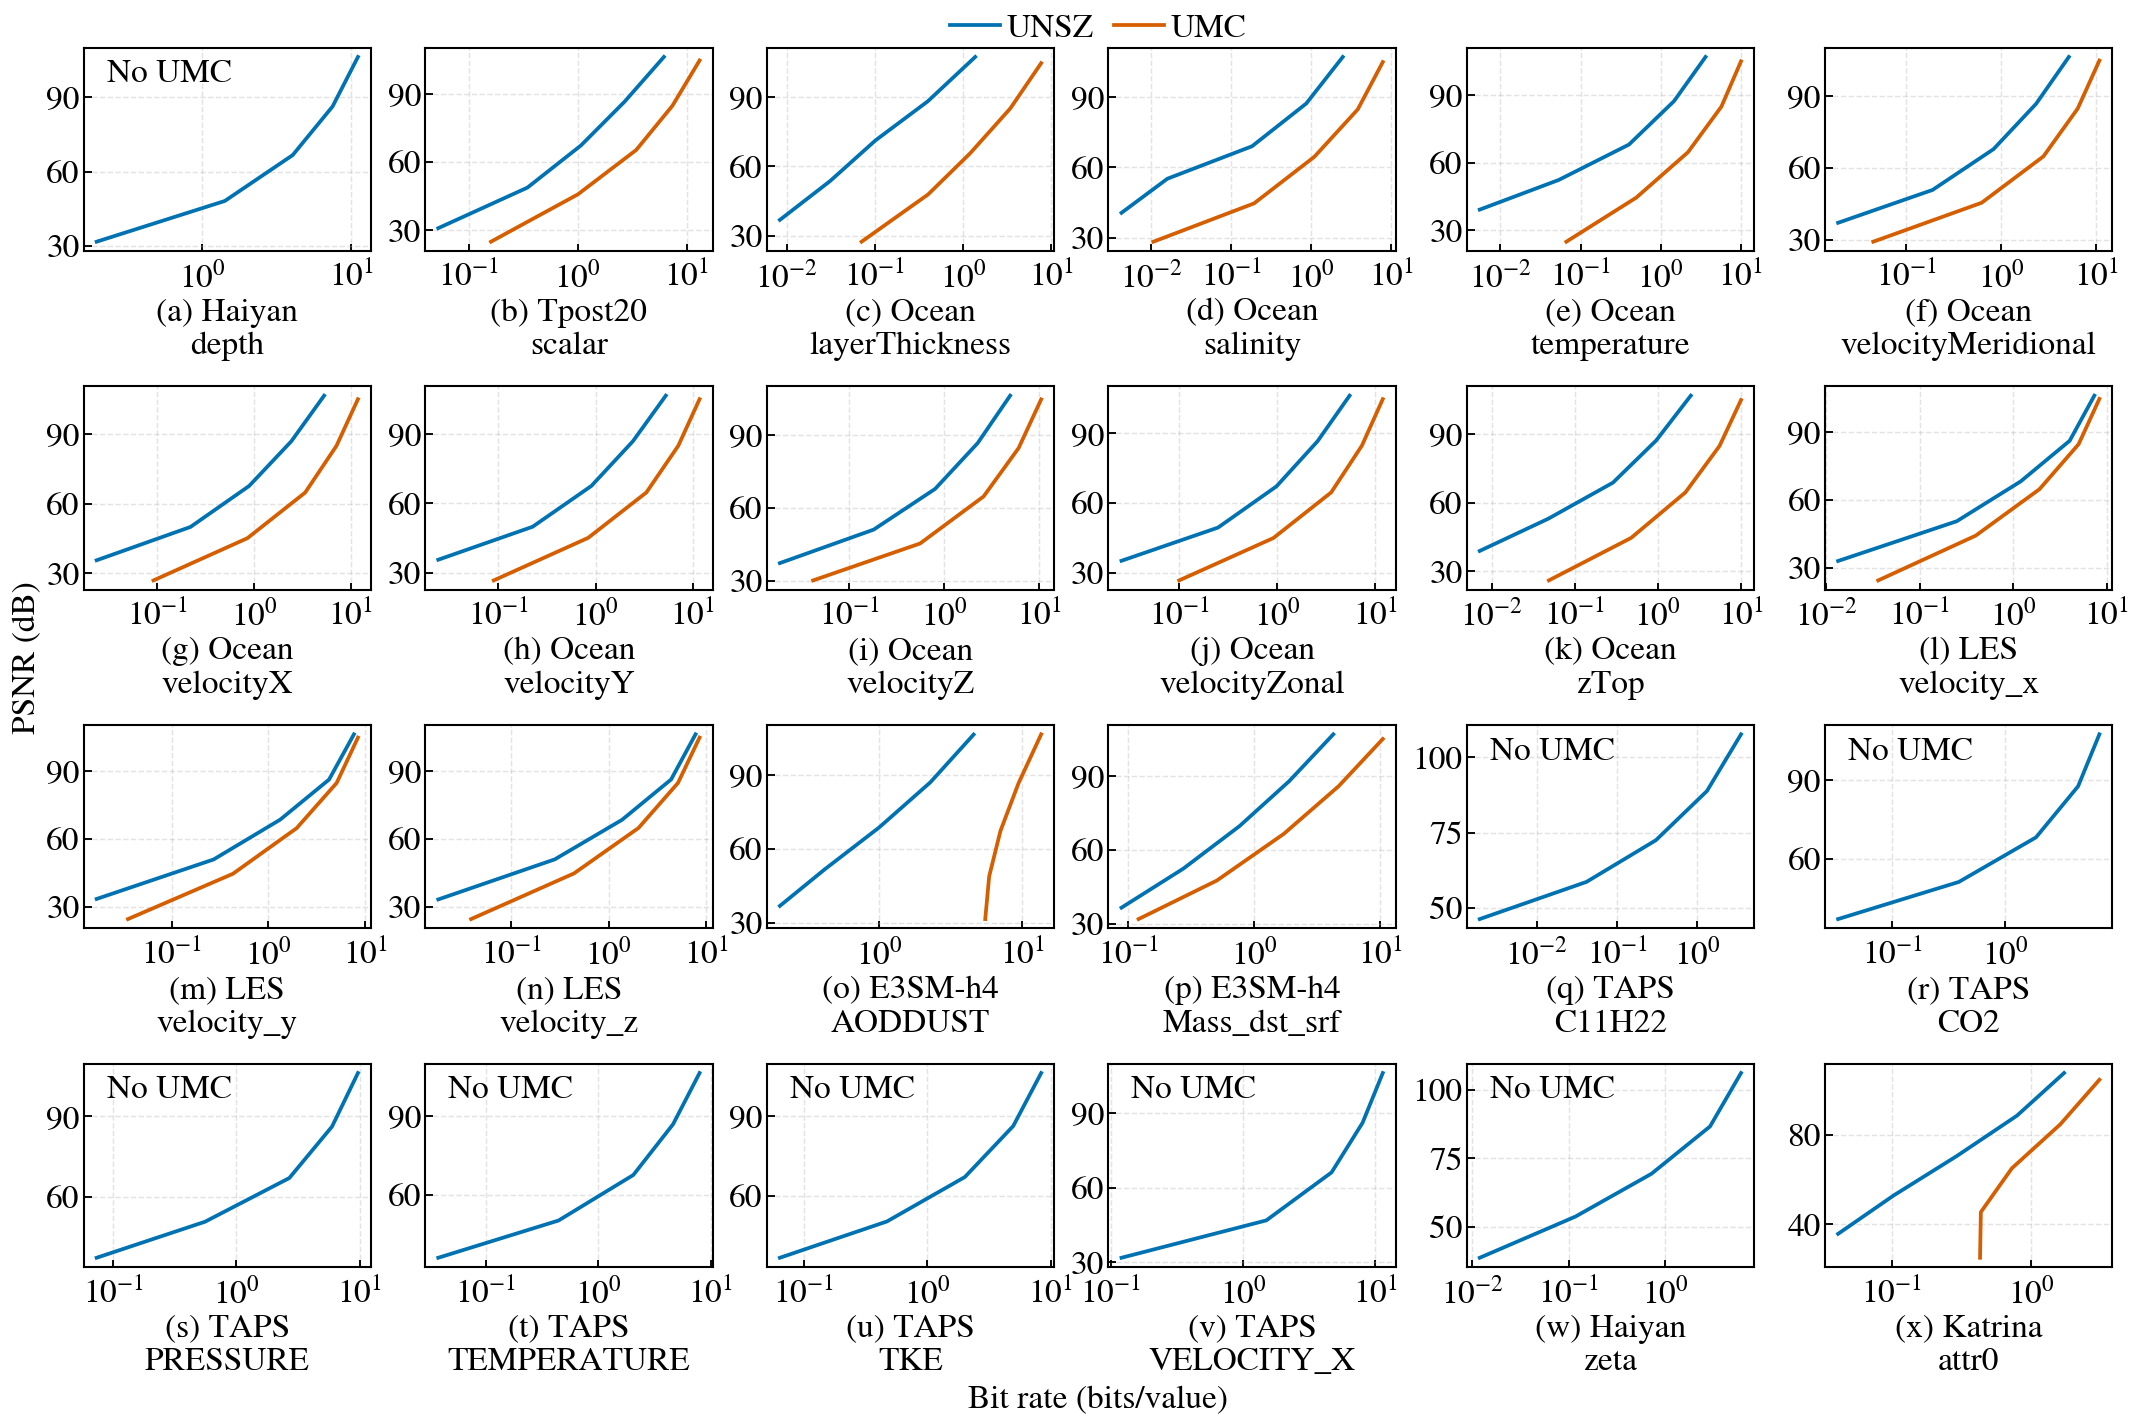
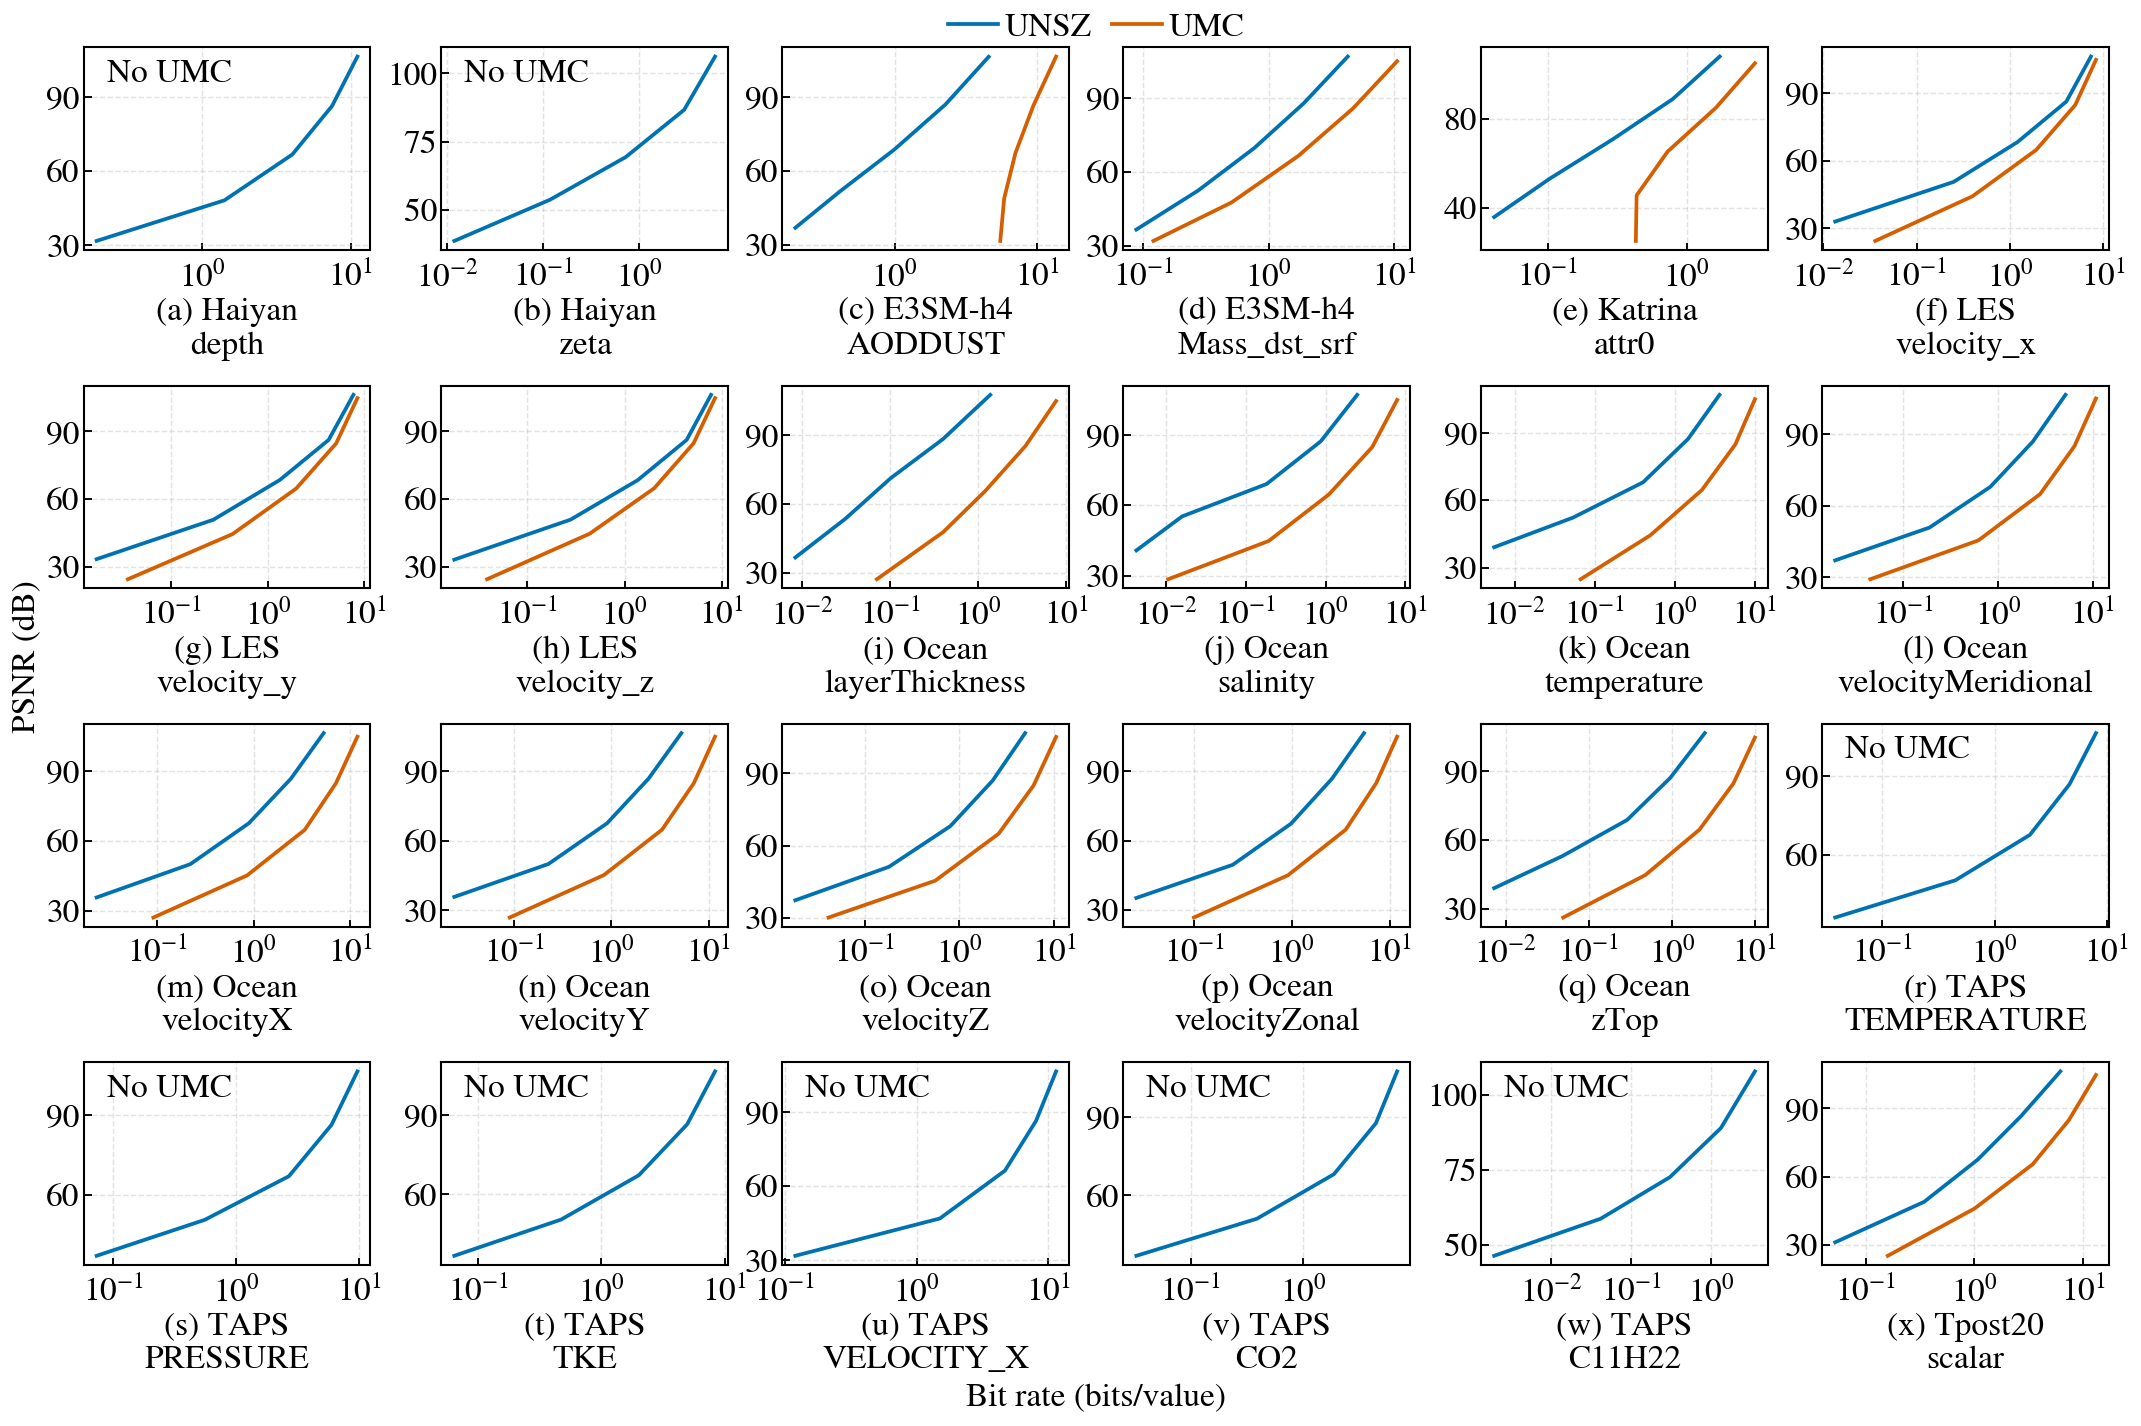
Simplify the Ocean-large evaluation and redraw its figures
Merge each Ocean-large subsection's figures into one single-column figure
with the overall rate-distortion curves and the 128-core codec time, drop
the scalability subsections in favor of one sentence comparing UNSZ with
UMC, and explain why SZ3 and QoZ are parallelized over point partitions.
Order the moderate-size panels like Table I, add panel letters and shared
axis labels, remove minor ticks, and state all results as compression-ratio
and speedup multipliers.

diff --git a/py_codes/plot_ocean_large.py b/py_codes/plot_ocean_large.py
@@ -3,7 +3,10 @@ from pathlib import Path
 
 import matplotlib.pyplot as plt
 from matplotlib.lines import Line2D
+from matplotlib.ticker import FixedLocator,FuncFormatter,LogLocator,NullLocator
+from paperfig import PANEL_GAP_WITH_YLABEL_PT,PaperFigureSpec,add_panel_captions,align_xlabels,apply_paper_style,layout_panel_row,legend_spacing_kwargs,panel_aspect_ratios,save_paper_png_vertical_crop,style_plot_axis
 
+from plot_current_benchmarks import add_top_legend
 from summarize_current_results import calculate_bd_rate
 
 
@@ -99,6 +102,52 @@ def plot_time(runs,scaling,mode,output_path):
     save(figure,output_path)
 
 
+def set_log_time_ticks(axis):
+    # 对数时间轴跨度不足约一个半数量级时补上2和5倍的刻度，否则只标10的整数次幂；刻度统一写成普通数字
+    bottom,top=axis.get_ylim()
+    subs=(1.0,2.0,5.0) if math.log10(top/bottom)<1.5 else (1.0,)
+    axis.yaxis.set_major_locator(FixedLocator([tick for tick in LogLocator(base=10,subs=subs).tick_values(bottom,top) if bottom<=tick<=top]))
+    axis.yaxis.set_major_formatter(FuncFormatter(lambda value,_:f"{value:g}"))
+
+
+def plot_summary(runs,mode,output_path):
+    # 单栏一行两个子图：全部95个field的RD、128核下各EB的total codec time
+    with plt.rc_context():
+        apply_paper_style()
+        spec=PaperFigureSpec.column()
+        figure,axes=plt.subplots(1,2,figsize=spec.size_in,dpi=spec.dpi)
+        rd_axis,time_axis=axes
+        rel_ebs=sorted({point["rel_eb"] for points in runs.values() for point in points},reverse=True)
+        for codec,points in runs.items():
+            color=styles[codec][0]
+            rd_axis.plot([point["groups"][None]["br"] for point in points],[point["groups"][None]["psnr"] for point in points],color=color,linewidth=.9)
+            times={point["rel_eb"]:point["total_codec_time"] for point in points}
+            time_axis.plot([eb_index for eb_index,rel_eb in enumerate(rel_ebs) if rel_eb in times],[times[rel_eb] for rel_eb in rel_ebs if rel_eb in times],color=color,linewidth=.9)
+        rd_axis.set_xscale("log")
+        x_left,x_right=rd_axis.get_xlim()
+        rd_axis.xaxis.set_major_locator(FixedLocator([tick for tick in LogLocator(base=10,numticks=4).tick_values(x_left,x_right) if x_left<=tick<=x_right]))
+        rd_axis.set_xlabel("Bit rate (bits/value)")
+        rd_axis.set_ylabel("PSNR (dB)")
+        time_axis.set_xticks(range(len(rel_ebs)),[f"$10^{{{round(math.log10(rel_eb))}}}$" for rel_eb in rel_ebs])
+        time_axis.set_xlabel("Relative error bound")
+        time_axis.set_yscale("log")
+        set_log_time_ticks(time_axis)
+        time_axis.set_ylabel("Total codec time (s)")
+        for axis in axes:
+            axis.xaxis.set_minor_locator(NullLocator())
+            axis.yaxis.set_minor_locator(NullLocator())
+            axis.set_axisbelow(True)
+            axis.grid(True,which="major",linestyle="--",linewidth=.35,alpha=.35)
+            style_plot_axis(axis)
+        layout_panel_row(figure,axes,panel_aspect_ratios(1,1),bottom_pt=40,panel_gap_pt=PANEL_GAP_WITH_YLABEL_PT,left_edge_gap_pt=3,right_edge_gap_pt=3)
+        add_top_legend(figure,[axes],[Line2D([],[],color=styles[codec][0],linewidth=.9,label=codec) for codec in runs],ncol=len(runs),**legend_spacing_kwargs(12))
+        align_xlabels(figure,axes)
+        add_panel_captions(figure,axes,["(a) Rate\u2013distortion","(b) Time on 128 cores"])
+        output_path.parent.mkdir(parents=True,exist_ok=True)
+        save_paper_png_vertical_crop(figure,output_path.with_suffix(".png"),spec,edge_gap_pt=3)
+        plt.close(figure)
+
+
 def save(figure,output_path):
     output_path.parent.mkdir(parents=True,exist_ok=True)
     figure.savefig(output_path.with_suffix(".pdf"),bbox_inches="tight",facecolor="white")
@@ -141,6 +190,7 @@ def main():
     for mode,runs in(("slice",slice_runs),("field",field_runs)):
         scaling=load_scaling(arguments.result_root,mode)
         plot_time(runs,scaling,mode,arguments.output_dir/f"ocean_large_{mode}_time")
+        plot_summary(runs,mode,arguments.output_dir/f"ocean_large_{mode}_summary")
         report_ratios(runs,mode)
         report_scaling(scaling,mode)
 

diff --git a/py_codes/plot_current_benchmarks.py b/py_codes/plot_current_benchmarks.py
@@ -9,7 +9,8 @@ from matplotlib.patches import Patch
 
 
 project_root=Path(__file__).resolve().parents[1]
-default_configs=("katrina","les","e3sm-h4","adcirc-haiyan-1.5km","ocean","taps","tpost20")
+# 与论文表I的数据集顺序一致，field按各配置文件中的顺序排列
+default_configs=("adcirc-haiyan-1.5km","e3sm-h4","katrina","les","ocean","taps","tpost20")
 # 论文中不展示的field，使25个field变为4x6的网格
 excluded_fields={("taps","RMS_T")}
 dataset_labels={"katrina":"Katrina","les":"LES","e3sm-h4":"E3SM-h4","adcirc-haiyan-1.5km":"Haiyan","ocean":"Ocean","taps":"TAPS","tpost20":"Tpost20"}
@@ -78,7 +79,7 @@ def load_fields(config_names,selected_fields):
                 if len(input_bytes)!=1:
                     raise ValueError(f"{task['name']}:{field}的input_bytes不一致：{sorted(input_bytes)}")
                 fields.append((config_name,task,field,rows,input_bytes.pop()))
-    return sorted(fields,key=lambda item:(item[4],item[2].casefold(),item[1]["name"]))
+    return fields
 
 
 def subplot_grid(item_num,column_num=6):
